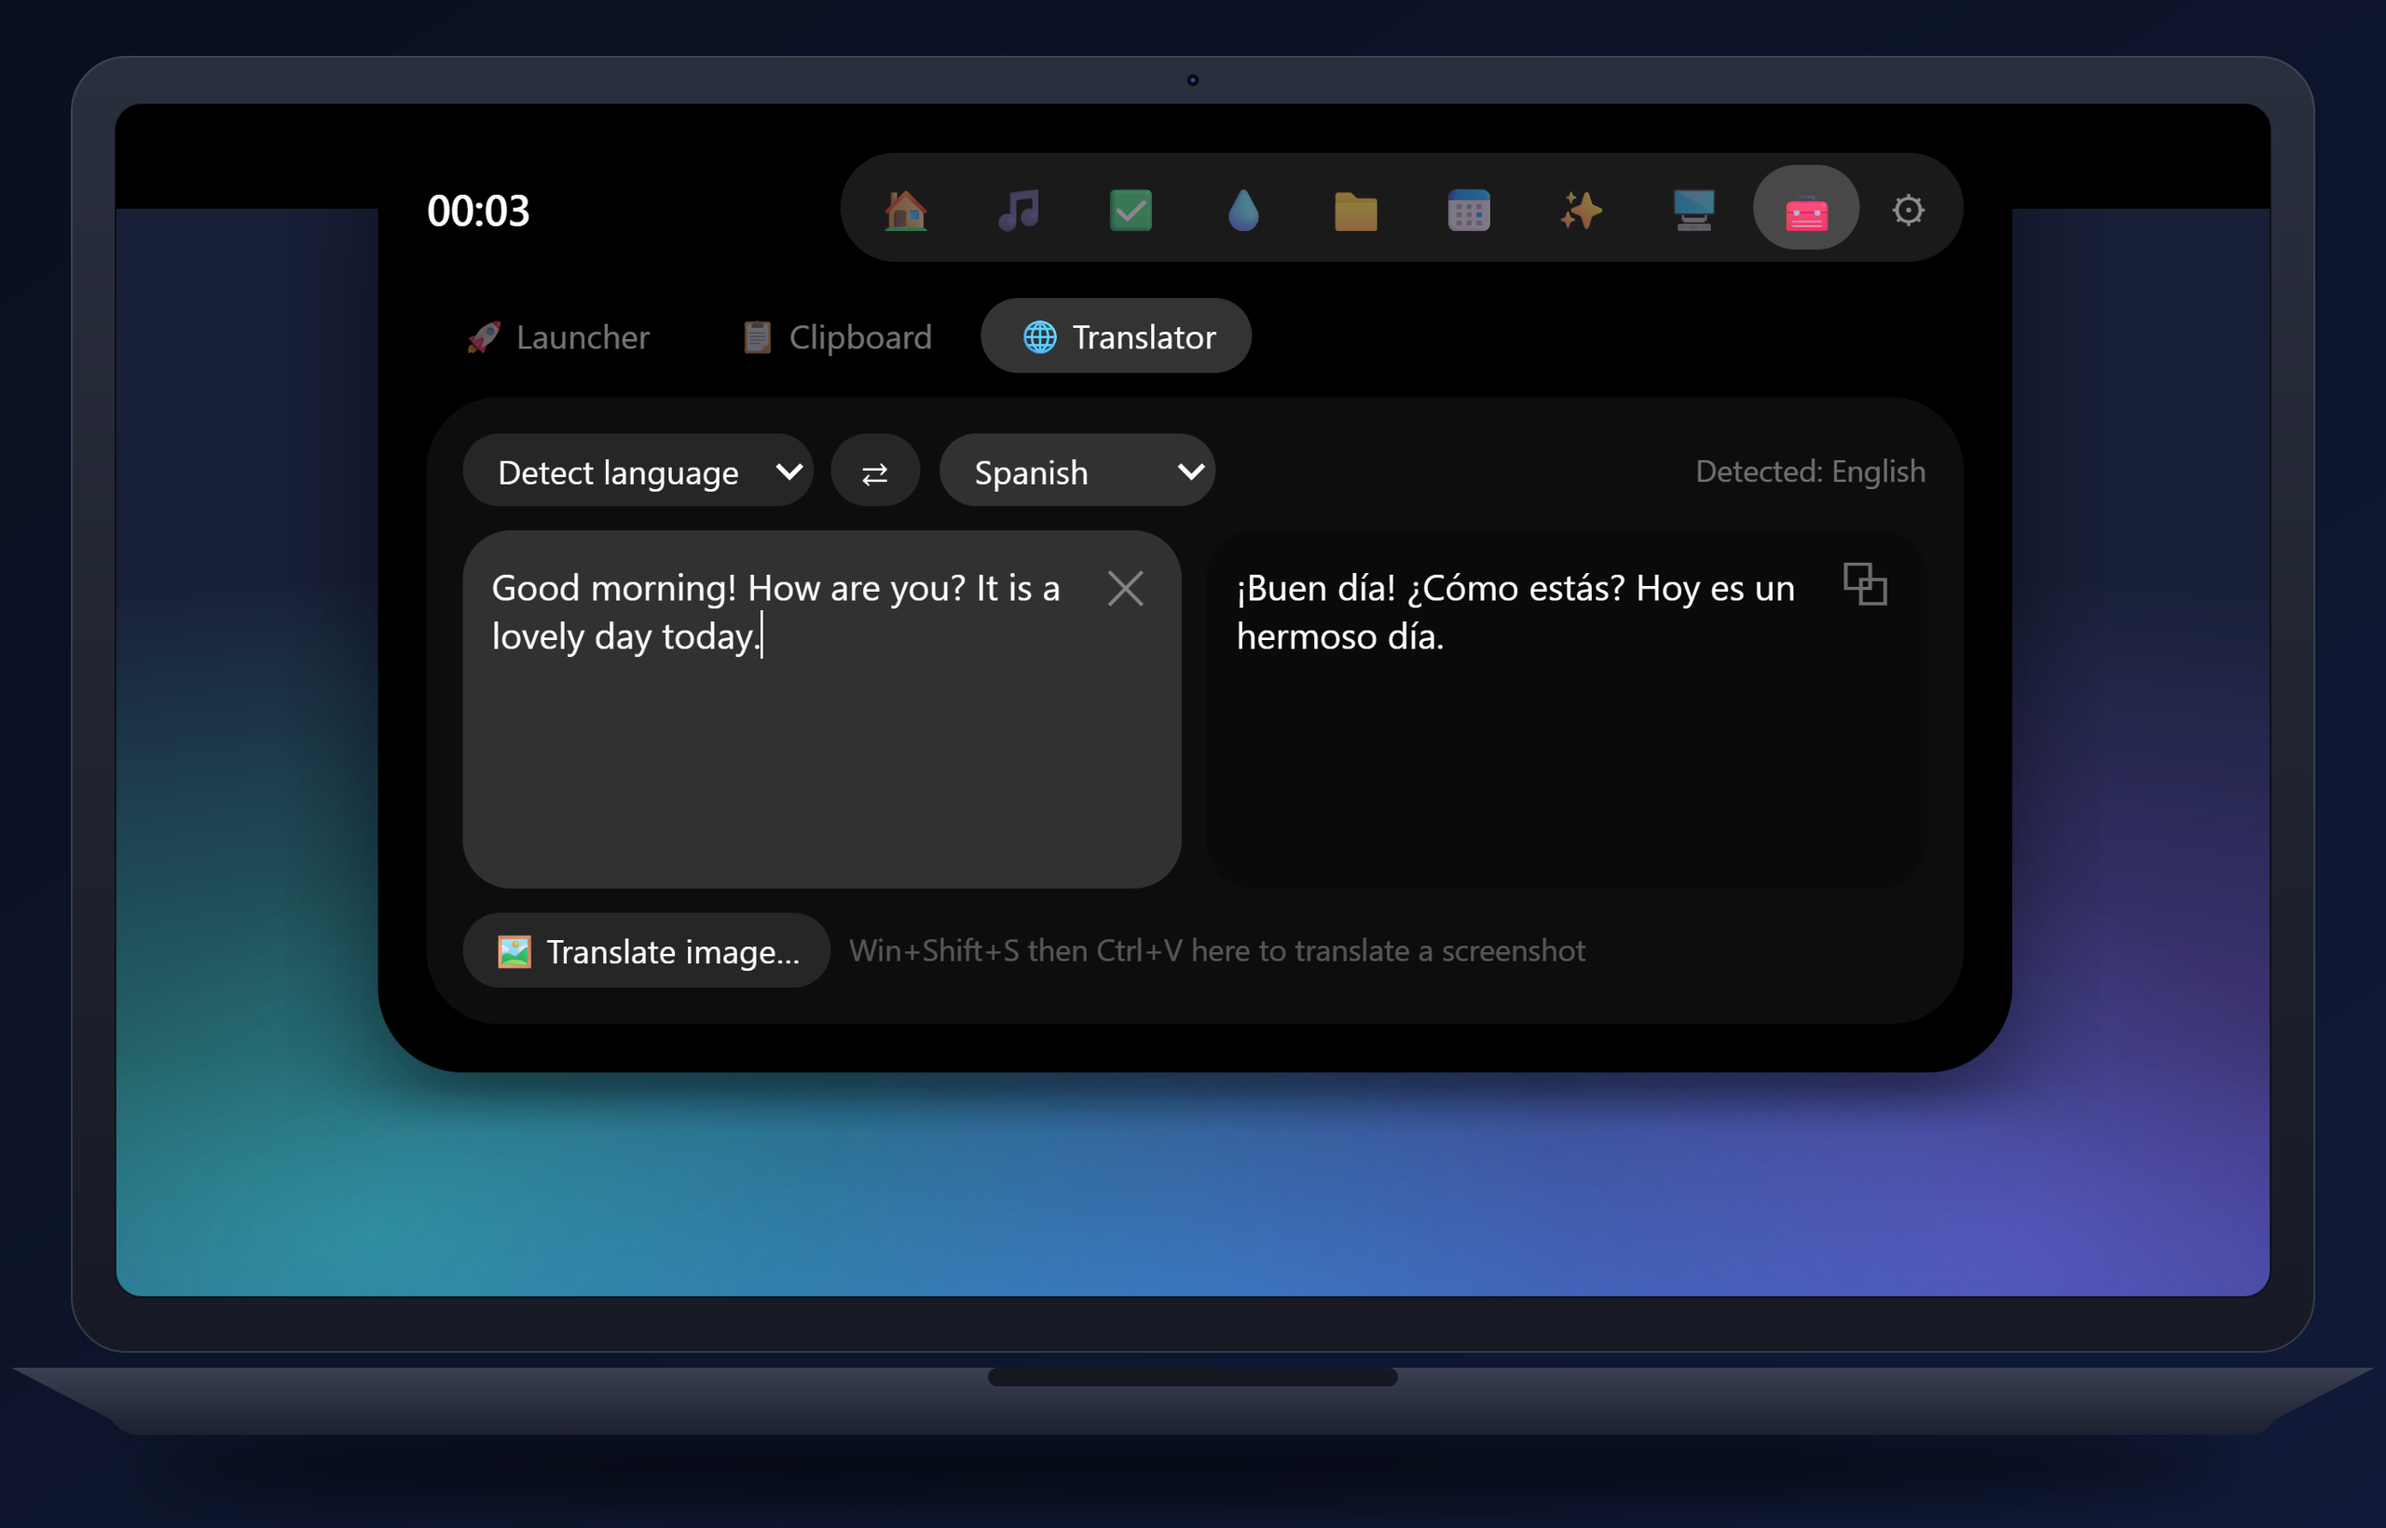
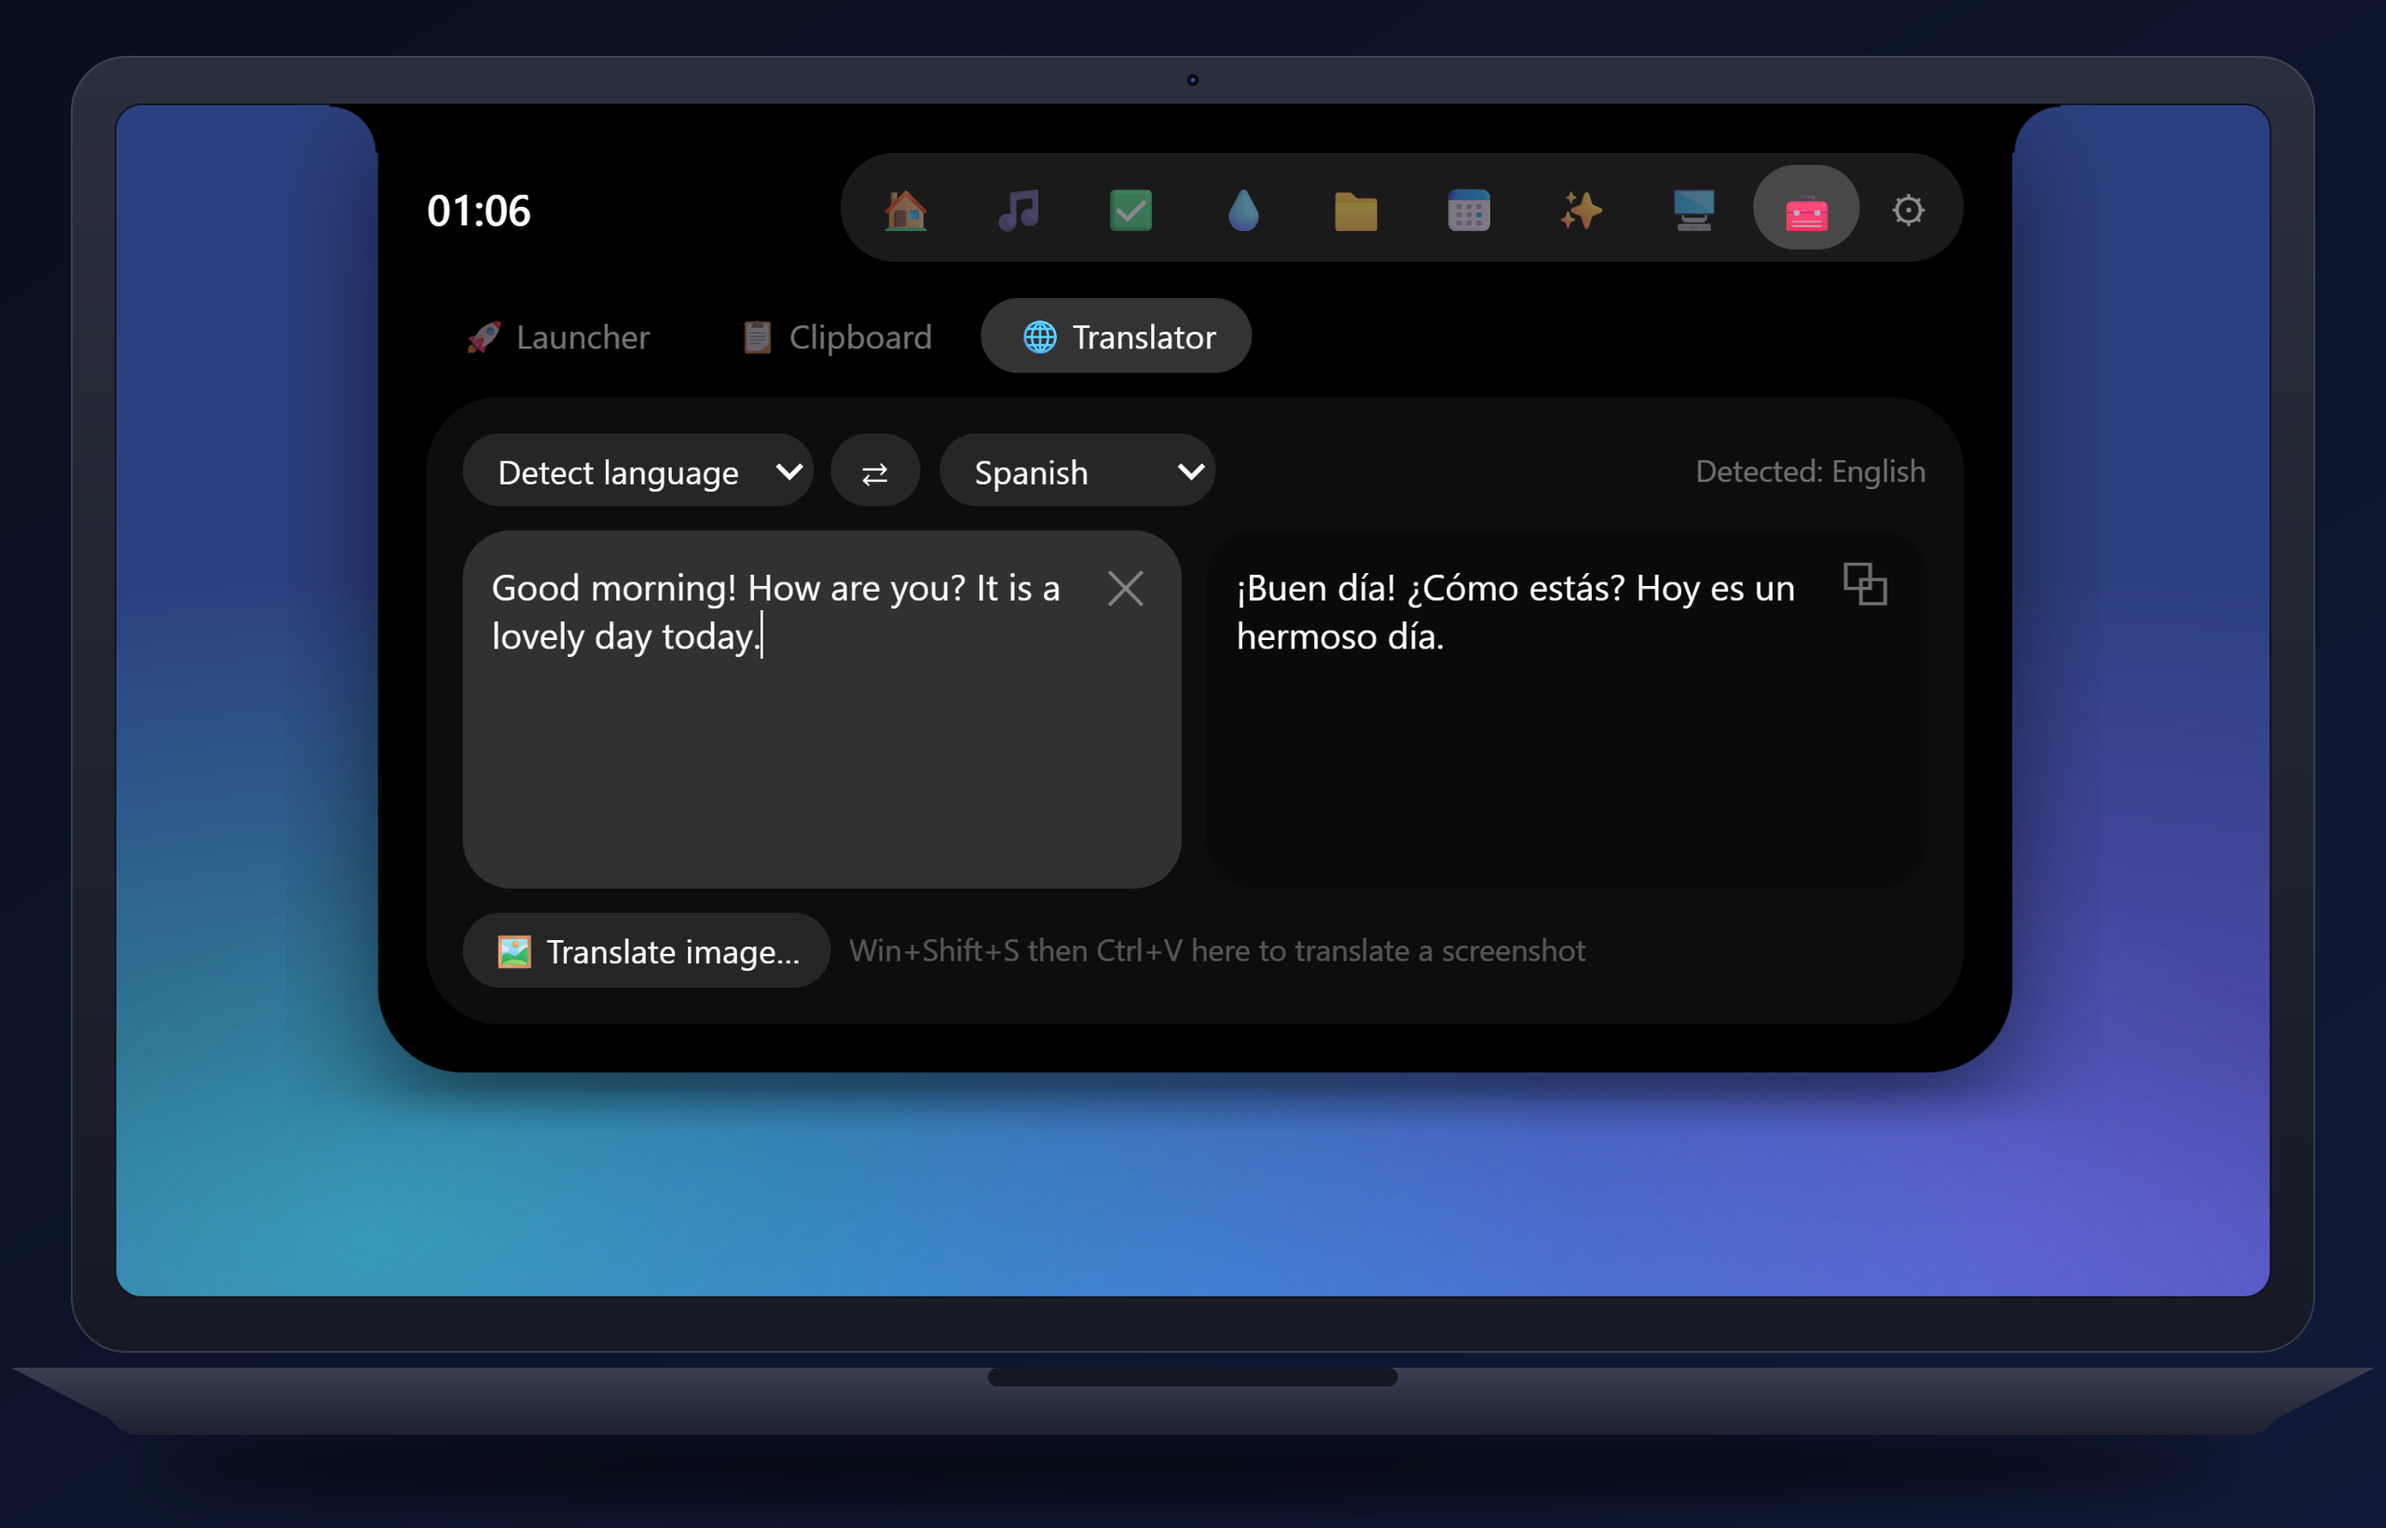
Capturas: se ve la forma del notch y la franja personalizable

Changed region(s): [[0.0312, 0.0622, 0.9688, 0.8707], [0.1875, 0.1244, 0.2188, 0.1555]]

diff --git a/README.en.md b/README.en.md
@@ -136,7 +136,8 @@ In **Settings → Appearance** you can:
 <td align="center"><img src="docs/screenshots/en-look-image.png" width="420" alt="Notch with an image" /><br /><sub><b>An image</b> · as the background of the notch and the strip</sub></td>
 </tr>
 <tr>
-<td align="center" colspan="2"><img src="docs/screenshots/en-closed.png" width="420" alt="Noki closed" /><br /><sub><b>Closed</b> · time, tasks, habits, weather, battery and what's playing</sub></td>
+<td align="center"><img src="docs/screenshots/en-look-strip.png" width="420" alt="Strip in another color" /><br /><sub><b>The strip your way</b> · the sides of the notch can be another color, an image or transparent</sub></td>
+<td align="center"><img src="docs/screenshots/en-closed.png" width="420" alt="Noki closed" /><br /><sub><b>Closed</b> · time, tasks, habits, weather, battery and what's playing</sub></td>
 </tr>
 </table>
 

diff --git a/README.md b/README.md
@@ -136,7 +136,8 @@ En **Ajustes → Apariencia** puedes:
 <td align="center"><img src="docs/screenshots/es-look-image.png" width="420" alt="Notch con imagen" /><br /><sub><b>Una imagen</b> · de fondo en el notch y en la franja</sub></td>
 </tr>
 <tr>
-<td align="center" colspan="2"><img src="docs/screenshots/es-closed.png" width="420" alt="Noki cerrado" /><br /><sub><b>Cerrado</b> · hora, tareas, hábitos, clima, batería y lo que suena</sub></td>
+<td align="center"><img src="docs/screenshots/es-look-strip.png" width="420" alt="Franja de otro color" /><br /><sub><b>La franja a tu gusto</b> · los costados del notch pueden ser de otro color, una imagen o transparentes</sub></td>
+<td align="center"><img src="docs/screenshots/es-closed.png" width="420" alt="Noki cerrado" /><br /><sub><b>Cerrado</b> · hora, tareas, hábitos, clima, batería y lo que suena</sub></td>
 </tr>
 </table>
 
